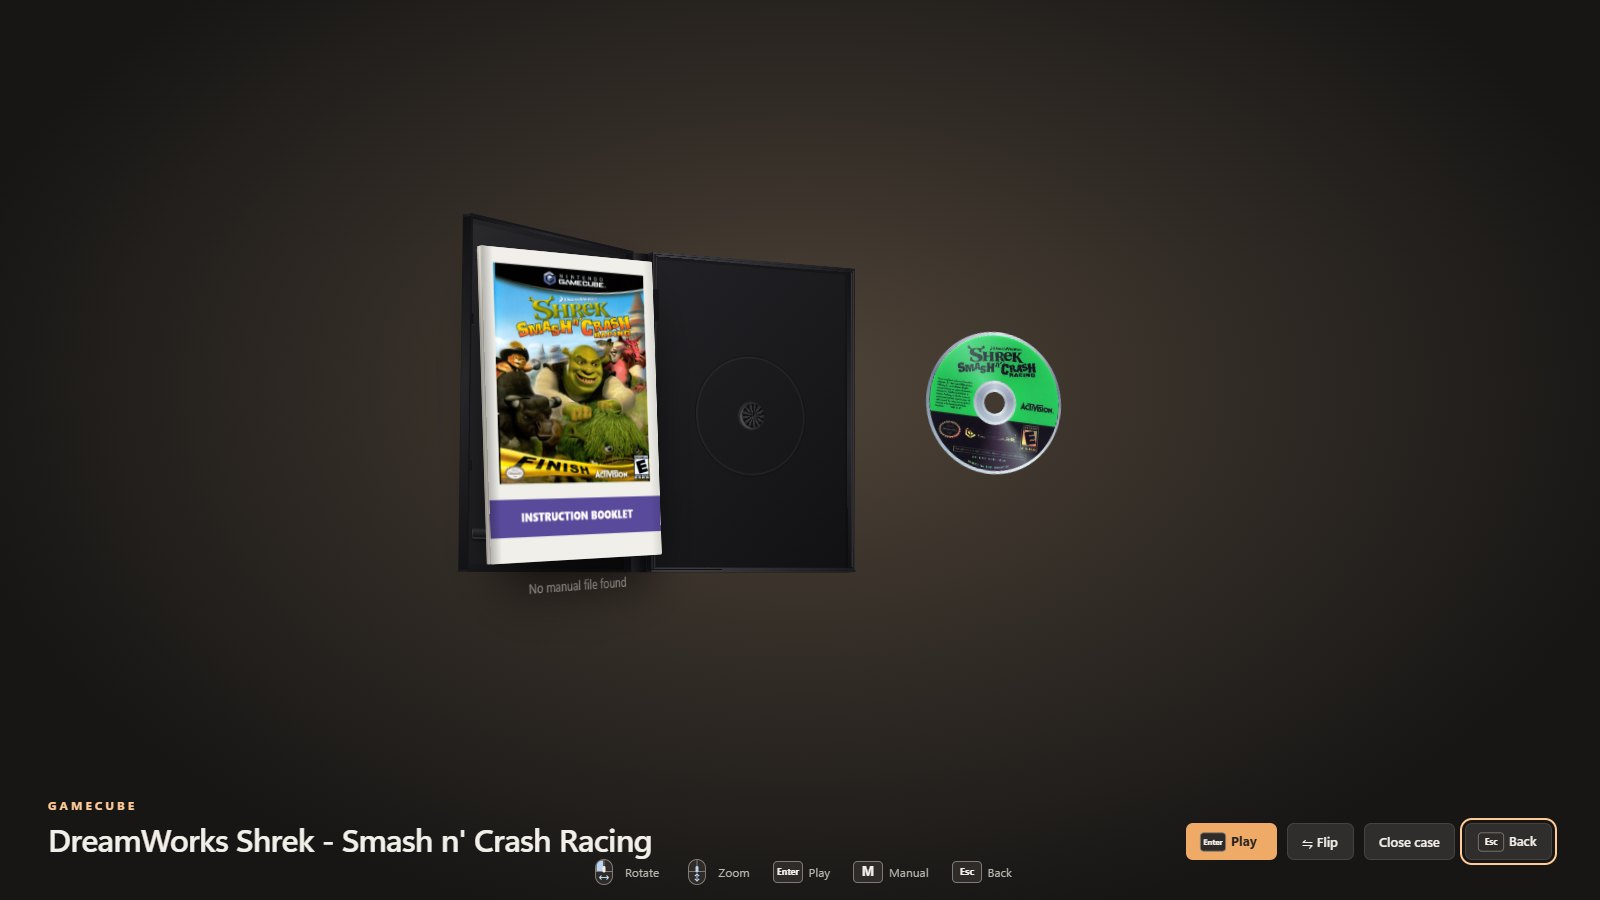
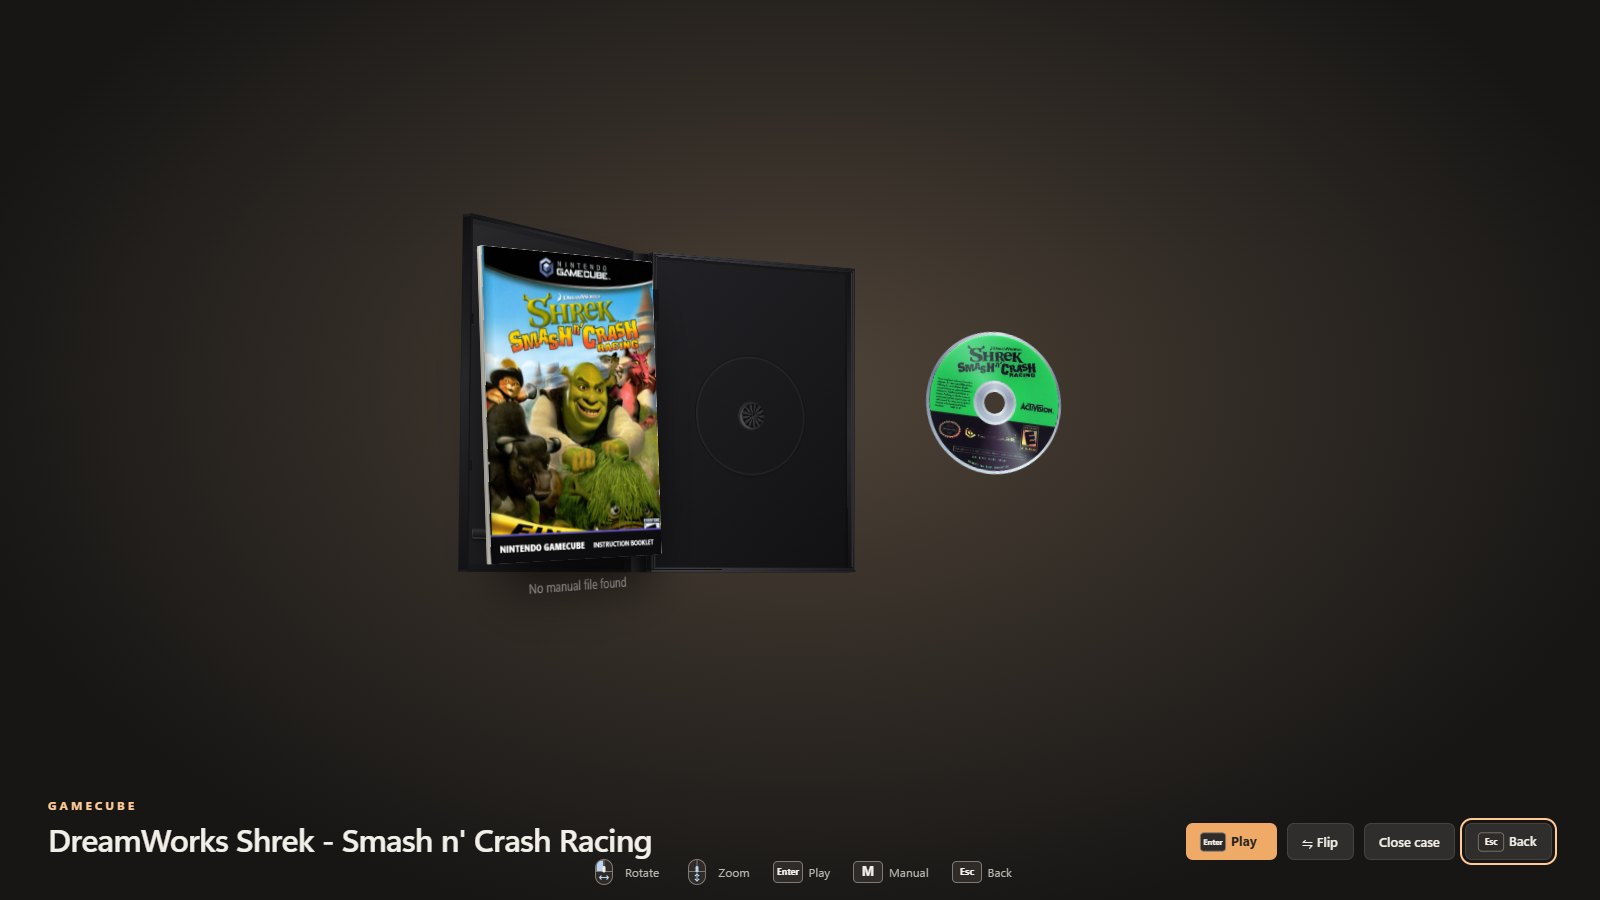
Print the instruction booklet like each system's real manuals (0.8.1)
The booklet in the case view now shows the box art edge to edge,
cropped rather than squashed, instead of sitting in an off-white frame.
Systems other than PlayStation get a strip along the foot in their
retail colours with the system wordmark and "INSTRUCTION BOOKLET",
taken from the same per-system design as the generated spines
(Packaging.design). PlayStation, PS2 and PSP booklets reprint the cover.

Refreshes the README case and manual screenshots and bumps to 0.8.1.

Changed region(s): [[0.2812, 0.28, 0.4375, 0.6533]]

diff --git a/renderer/art.js b/renderer/art.js
@@ -173,17 +173,35 @@ const Art = (() => {
     });
   }
 
-  function manual(game, sys, frontUrl, W, H) {
-    return memo('m' + JSON.stringify([game.id, game.title, sys.id, frontUrl, W, H]), () => new Promise(res => {
+  // The instruction booklet's cover, printed the way that system's manuals were: the box art edge to
+  // edge (cropped to the booklet, never squashed), then, except on PlayStation, whose manuals simply
+  // reprint the cover, a strip along the foot in the system's retail colours with its wordmark and
+  // "INSTRUCTION BOOKLET". design is the system's spine design (Packaging.design), so the booklet
+  // and the case's spine match.
+  function manual(game, sys, frontUrl, W, H, design = {}) {
+    return memo('m' + JSON.stringify([game.id, game.title, sys.id, frontUrl, W, H, design.style]), () => new Promise(res => {
       const [c, ctx] = canvas(W * 2, H * 2); const w = c.width, h = c.height;
+      const strip = design.style === 'ps' ? 0 : Math.round(h * 0.085), rule = strip && (design.rule || design.accent) ? Math.max(2, h * 0.006) : 0;
       const img = new Image();
       img.onload = () => {
-        ctx.fillStyle = '#f1efe9'; ctx.fillRect(0, 0, w, h);
-        ctx.drawImage(img, w * 0.06, h * 0.05, w * 0.88, h * 0.7);
-        ctx.fillStyle = sys.color; ctx.fillRect(0, h * 0.8, w, h * 0.12);
-        ctx.font = `800 ${w * 0.055}px "Segoe UI"`; ctx.fillStyle = lum(sys.color) > 0.6 ? '#111' : '#fff'; ctx.textAlign = 'center'; ctx.textBaseline = 'middle';
-        ctx.fillText('INSTRUCTION BOOKLET', w / 2, h * 0.86);
-        res(c.toDataURL('image/jpeg', 0.88));
+        const artH = h - strip - rule, s = Math.max(w / img.naturalWidth, artH / img.naturalHeight);
+        const dw = img.naturalWidth * s, dh = img.naturalHeight * s;
+        ctx.fillStyle = design.body || '#111'; ctx.fillRect(0, 0, w, h);
+        ctx.save(); ctx.beginPath(); ctx.rect(0, 0, w, artH); ctx.clip();
+        ctx.drawImage(img, (w - dw) / 2, 0, dw, dh); ctx.restore();   // keep the top: that is where the logo is
+        if (strip) {
+          if (rule) { ctx.fillStyle = design.rule || design.accent; ctx.fillRect(0, artH, w, rule); }
+          const band = design.band || sys.color || '#222', ink = design.ink || (lum(band) > 0.6 ? '#111' : '#fff');
+          ctx.fillStyle = band; ctx.fillRect(0, h - strip, w, strip);
+          ctx.fillStyle = ink; ctx.textBaseline = 'middle'; const mid = h - strip / 2, pad = w * 0.05;
+          const mark = (design.mark || [sys.name]).join(' ');
+          ctx.textAlign = 'left'; ctx.font = `900 ${strip * 0.36}px "Segoe UI", Arial, sans-serif`;
+          const markW = Math.min(ctx.measureText(mark.toUpperCase()).width, w * 0.48);
+          ctx.fillText(mark.toUpperCase(), pad, mid, w * 0.48);
+          ctx.textAlign = 'right'; ctx.font = `700 ${strip * 0.27}px "Segoe UI", Arial, sans-serif`;
+          ctx.fillText('INSTRUCTION BOOKLET', w - pad, mid, w - pad * 3 - markW);
+        }
+        res(c.toDataURL('image/jpeg', 0.9));
       };
       img.onerror = () => res(frontUrl);
       img.src = frontUrl;

diff --git a/renderer/app.js b/renderer/app.js
@@ -1277,7 +1277,7 @@ async function openCase() {
 
   c.append(createMedia(g,a));
   const man = el('div', 'manual'), page = el('div', 'page');
-  page.style.backgroundImage = `url("${await Art.manual(g, a.sys, a.front, a.W, a.H)}")`;
+  page.style.backgroundImage = `url("${await Art.manual(g, a.sys, a.front, a.W, a.H, Packaging.design(a.sys))}")`;
   if (CV.token !== token) return;
   if(a.digital||a.packshot) {
     page.style.backgroundImage='none';page.classList.add('manual-custom-cover');

diff --git a/renderer/packaging.js b/renderer/packaging.js
@@ -217,5 +217,5 @@ const Packaging=(()=>{
     footer.style.fontSize=fitText(footer.textContent,footerHeight*.9,a.D*.24)+'px';
     insert.append(brand(a.sys,a.D,header),titleArea,footer);face.append(insert);return face;
   }
-  return {profiles,profile,size:sys=>model(sys)?.size,decorate,spine,finish};
+  return {profiles,profile,size:sys=>model(sys)?.size,design:spineDesign,decorate,spine,finish};
 })();

diff --git a/CHANGELOG.md b/CHANGELOG.md
@@ -4,6 +4,11 @@ All notable changes to PyroCade. Downloads are on the [releases page](https://gi
 
 ## [Unreleased]
 
+## [0.8.1] - 2026-11-08
+
+### Changed
+- **The instruction booklet looks like that system's real manual.** The box art now fills the booklet edge to edge (cropped, never squashed) instead of sitting in a plain off-white frame. Nintendo, Sega and other systems get a strip along the foot in their retail colours, with the system's wordmark and "INSTRUCTION BOOKLET", and the same colours as the case spine. PlayStation, PS2 and PSP booklets simply reprint the cover, as their manuals did.
+
 ## [0.8.0] - 2026-11-08
 
 ### Added
@@ -214,6 +219,7 @@ Entries marked *(u/RiceDesperate5724)* were asked for by [u/RiceDesperate5724](h
 - Launching finds the ROM by game ID, keeps `$` in paths, and only minimizes once the emulator has started.
 - Settings are saved atomically, and a damaged settings file is backed up instead of overwritten.
 
+[0.8.1]: https://github.com/Pyrodrifter/PyroCade/compare/v0.8.0...v0.8.1
 [0.8.0]: https://github.com/Pyrodrifter/PyroCade/compare/v0.7.0...v0.8.0
 [0.7.0]: https://github.com/Pyrodrifter/PyroCade/compare/v0.6.0...v0.7.0
 [0.6.0]: https://github.com/Pyrodrifter/PyroCade/compare/v0.5.0...v0.6.0

diff --git a/README.md b/README.md
@@ -27,7 +27,7 @@ The screenshots show the current source build. The GameCube shelf has **Shrek 2*
   - Discs slide out of the selected case, and cartridges rise above the cover so you can see the label. In the case view, a cartridge comes up out of its cardboard box and settles in front of it.
   - **Cartridges come in their real colours:** taken from a photo of the actual cartridge, or from a list of famous ones (gold Ocarina of Time, the coloured Pokémon cartridges…). You can also pick your own colour per game in **Artwork → Change an image**.
   - Generated spines follow each console's retail design, and real spine scans always win.
-  - Open a case to turn it around, flip it and read the manual.
+  - Open a case to turn it around, flip it and read the manual. The booklet inside is printed like that system's real manuals, in its retail colours.
 - **Library controls.**
   - **Favourites** (press **F**) and **Recently played** get their own shelves.
   - **Play time** and **last played** show with each game.
